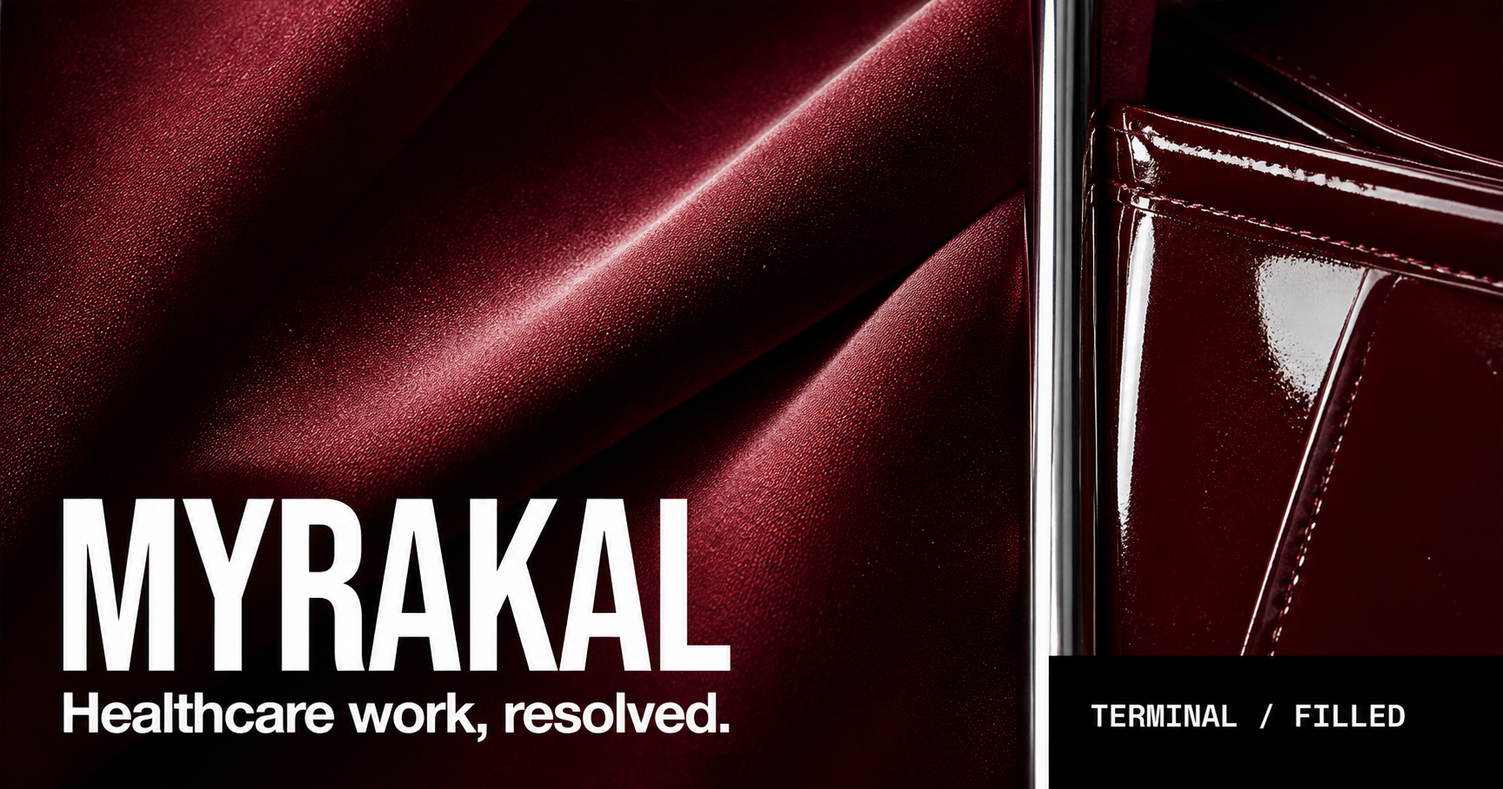
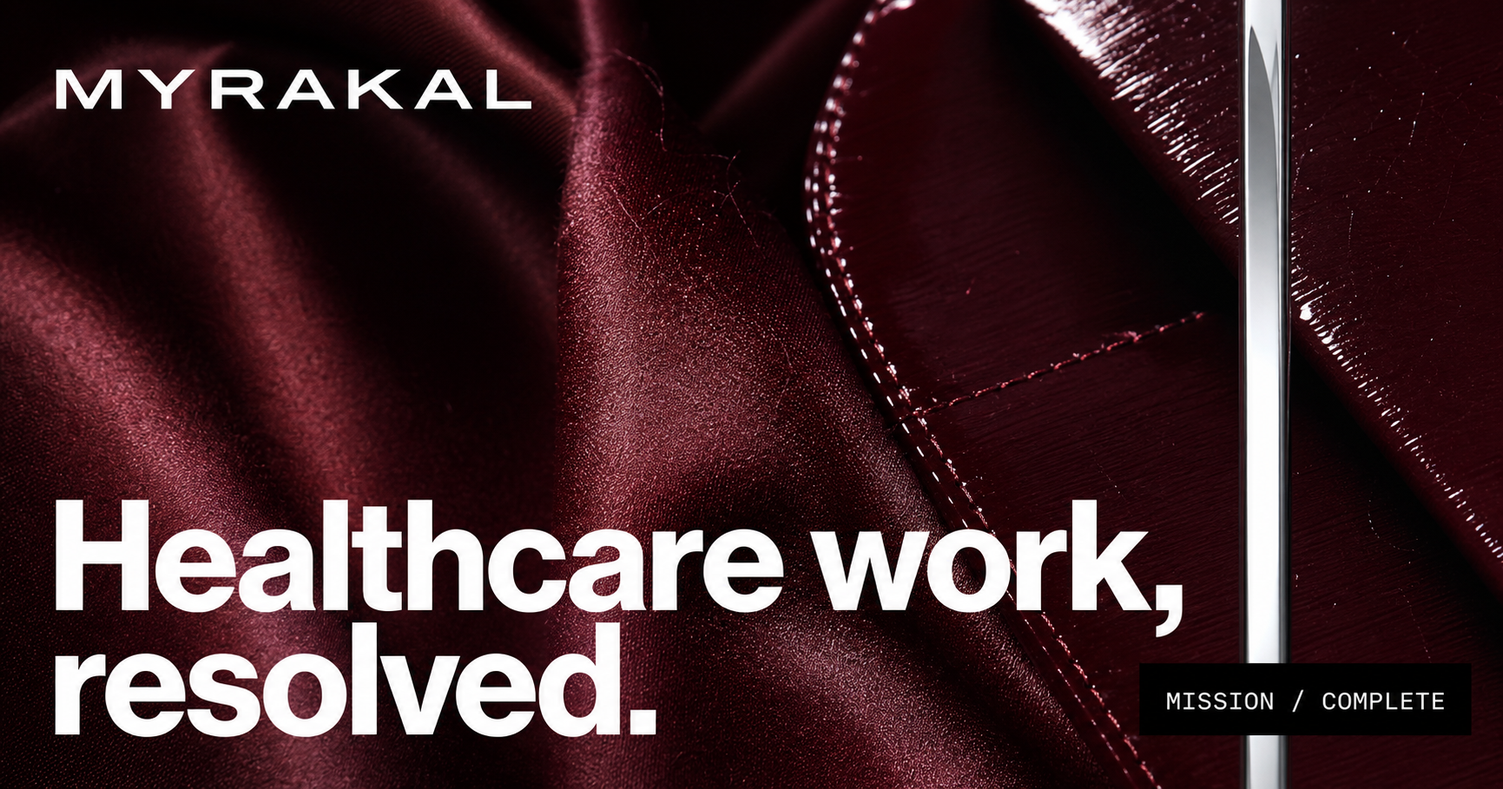
Expand Myrakal product narrative

diff --git a/app/globals.css b/app/globals.css
@@ -1,44 +1,22 @@
 @import "tailwindcss";
-
-:root{--paper:#f2efe9;--ink:#0a0909;--ox:#6f0711;--rule:rgba(10,9,9,.25)}
-*{box-sizing:border-box}
-html{scroll-behavior:smooth}
-body{margin:0;background:var(--paper);color:var(--ink);font-family:var(--font-geist),Arial,sans-serif}
-a{color:inherit}
-a:focus-visible{outline:2px solid currentColor;outline-offset:5px}
-.hero{min-height:100svh;position:relative;display:flex;align-items:flex-end;padding:9rem 3vw 4rem;color:#f6f2ec;background:#260206 url('/myrakal-hero.png') center/cover no-repeat;isolation:isolate}
-.hero:after{content:"";position:absolute;inset:0;z-index:-1;background:linear-gradient(90deg,rgba(12,0,0,.4) 0%,rgba(12,0,0,.12) 58%,rgba(12,0,0,.38) 100%)}
-.nav{position:absolute;top:0;left:0;width:100%;padding:2rem 3vw;display:flex;justify-content:space-between;align-items:center;border-bottom:1px solid rgba(255,255,255,.28);font-size:.74rem;letter-spacing:.16em}
-.brand{font-weight:650;text-decoration:none;letter-spacing:.42em}
-.nav nav{display:flex;gap:2.2rem}.nav nav a{text-decoration:none}.nav nav a:hover{opacity:.65}
-.hero-copy{width:min(1180px,92vw)}
-.eyebrow{font:500 .66rem/1.4 var(--font-mono),monospace;letter-spacing:.16em;margin:0 0 1.35rem}.eyebrow.dark{color:#5f5853}
-h1,h2,h3,p{margin-top:0}
-h1{font-size:clamp(4.4rem,10.4vw,10.5rem);line-height:.79;letter-spacing:-.077em;font-weight:540;margin:0;max-width:11ch}
-.intro{max-width:45ch;font:400 clamp(.9rem,1.15vw,1.08rem)/1.55 var(--font-mono),monospace;margin:2.4rem 0 0}
-.live-readout{position:absolute;right:3vw;bottom:4rem;display:grid;gap:.55rem;text-align:right;font:500 .64rem/1 var(--font-mono),monospace;letter-spacing:.1em}
-.scroll-cue{position:absolute;right:3vw;top:8rem;font:500 .64rem var(--font-mono),monospace;text-decoration:none;letter-spacing:.12em}
-.operation{position:relative;min-height:135vh;padding:12vh 3vw 18vh;display:grid;grid-template-columns:minmax(0,1fr) minmax(500px,.9fr);gap:8vw;align-items:start;background:var(--paper)}
-.operation-intro{position:sticky;top:12vh;max-width:760px}
-.operation h2,.principles h2{font-size:clamp(3.5rem,7vw,7.7rem);line-height:.88;letter-spacing:-.065em;font-weight:520;margin:0 0 2.5rem}
-.operation-intro>p:last-child{font-size:clamp(1.1rem,1.6vw,1.45rem);line-height:1.38;max-width:37ch}
-.console{margin-top:18vh;background:#090909;color:#f2f0eb;padding:1.5rem;min-height:720px;font:400 .72rem/1.4 var(--font-mono),monospace;box-shadow:12px 12px 0 var(--ox)}
-.console-top,.console-context,.console-result{display:flex;justify-content:space-between;gap:1rem;letter-spacing:.08em}
-.console-top{padding-bottom:1rem;border-bottom:1px solid #404040}.console-context{color:#969696;padding:1rem 0 2.5rem}.log{border-top:1px solid #242424}
-.log-line{display:grid;grid-template-columns:7.8rem 1fr auto;gap:1rem;padding:.85rem 0;border-bottom:1px solid #242424;animation:appear .2s both;animation-delay:calc(var(--i) * 70ms)}
-.log-line time{color:#717171}.log-line b{font-weight:400}.console-result{font-size:.76rem;background:#f2f0eb;color:#090909;padding:1.1rem;margin-top:2.5rem}
-@keyframes appear{from{opacity:0;transform:translateY(3px)}to{opacity:1;transform:none}}
-.resolution{min-height:100svh;position:relative;color:#f6f2ec;background:#2a0206;display:grid;grid-template-columns:1.25fr .75fr;overflow:hidden}
-.resolution-image{background:url('/myrakal-hero.png') 27% center/cover no-repeat;filter:saturate(1.18) contrast(1.06);min-height:85svh}
-.resolution-copy{padding:8vw 4vw;display:flex;flex-direction:column;justify-content:center}
-.resolution h2,.access h2{font-size:clamp(3.8rem,7vw,8rem);line-height:.86;letter-spacing:-.07em;font-weight:520;margin:0 0 2.3rem}
-.resolution-copy>p:not(.eyebrow){max-width:32ch;font-size:1.12rem;line-height:1.45}
-.receipt{font:400 .68rem/1.2 var(--font-mono),monospace;display:grid;grid-template-columns:1fr auto;gap:.7rem 1rem;border-top:1px solid rgba(255,255,255,.38);padding-top:1.2rem;margin-top:2.5rem}.receipt b{font-weight:500}
-.principles{padding:14vh 3vw 16vh}.principle-grid{display:grid;grid-template-columns:repeat(3,1fr);border-top:1px solid var(--ink)}
-.principle-grid article{padding:1.5rem 4vw 7rem 0;border-right:1px solid var(--rule)}.principle-grid article+article{padding-left:2vw}.principle-grid article:last-child{border-right:0}
-.principle-grid span{font:500 .68rem var(--font-mono),monospace}.principle-grid h3{font-size:clamp(2.4rem,4vw,4.4rem);letter-spacing:-.06em;font-weight:520;margin:4.5rem 0 1.4rem}.principle-grid p{max-width:28ch;line-height:1.5}
-.access{min-height:95svh;background:var(--ox);color:#f6f2ec;padding:12vh 3vw 2rem;display:flex;flex-direction:column}
-.access h2{max-width:10ch}.access>a{margin-top:auto;border-top:1px solid currentColor;border-bottom:1px solid currentColor;padding:1.5rem 0;display:flex;justify-content:space-between;text-decoration:none;font:500 clamp(1.3rem,2vw,2rem) var(--font-mono),monospace}.access>a:hover{padding-left:1rem;padding-right:1rem}
-footer{display:flex;justify-content:space-between;padding-top:2rem;font:500 .62rem var(--font-mono),monospace;letter-spacing:.13em}
-@media(max-width:800px){.nav nav a:first-child,.live-readout{display:none}.hero{padding:8rem 1.25rem 2rem}.nav{padding:1.5rem 1.25rem}.scroll-cue{right:1.25rem;top:6.7rem}.intro{max-width:34ch}.operation{display:block;padding:6rem 1.25rem}.operation-intro{position:relative;top:0}.console{margin-top:5rem;min-height:auto;box-shadow:7px 7px 0 var(--ox);padding:1rem}.log-line{grid-template-columns:6.3rem 1fr auto;gap:.5rem;font-size:.62rem}.resolution{grid-template-columns:1fr}.resolution-image{min-height:56svh}.resolution-copy{padding:5rem 1.25rem}.principles{padding:6rem 1.25rem}.principle-grid{grid-template-columns:1fr}.principle-grid article,.principle-grid article+article{padding:1.3rem 0 4rem;border-right:0;border-bottom:1px solid var(--rule)}.principle-grid h3{margin-top:2.5rem}.access{padding:6rem 1.25rem 1.5rem}footer{gap:1rem;flex-wrap:wrap}}
-@media(prefers-reduced-motion:reduce){html{scroll-behavior:auto}.log-line{animation:none}.access>a{transition:none}}
+:root{--paper:#f2efe9;--ink:#090909;--ox:#700711;--pale:#f6f2ec;--rule:rgba(9,9,9,.24);--mono:var(--font-mono),ui-monospace,monospace}
+*{box-sizing:border-box}html{scroll-behavior:smooth}body{margin:0;background:var(--paper);color:var(--ink);font-family:var(--font-geist),Arial,sans-serif}a{color:inherit}a:focus-visible{outline:2px solid currentColor;outline-offset:5px}h1,h2,h3,p,blockquote{margin-top:0}.paper{background:var(--paper)}.black{background:#090909;color:var(--pale)}.oxblood{background:var(--ox);color:var(--pale)}
+.eyebrow,.section-label{font:500 .64rem/1.4 var(--mono);letter-spacing:.16em;margin:0 0 1.4rem}.eyebrow.dark{color:#655d58}.section-label{position:absolute;top:2rem;left:3vw;color:#625b56}.section-label.light{color:#e5cdd0}section{position:relative}section h2{font-size:clamp(3.4rem,6.8vw,7.7rem);line-height:.87;letter-spacing:-.068em;font-weight:520;margin:0}section>div>p:not(.eyebrow){line-height:1.45}
+.hero{min-height:100svh;display:flex;align-items:flex-end;padding:9rem 3vw 4rem;color:var(--pale);background:#260206 url('/myrakal-hero.png') center/cover no-repeat;isolation:isolate}.hero:after{content:"";position:absolute;inset:0;z-index:-1;background:linear-gradient(90deg,rgba(12,0,0,.46),rgba(12,0,0,.08) 60%,rgba(12,0,0,.38))}.nav{position:absolute;top:0;left:0;width:100%;padding:2rem 3vw;display:flex;justify-content:space-between;border-bottom:1px solid #ffffff47;font-size:.7rem;letter-spacing:.15em}.brand{font-weight:650;letter-spacing:.42em;text-decoration:none}.nav nav{display:flex;gap:2rem}.nav nav a{text-decoration:none}.hero-copy{width:min(1200px,92vw)}h1{font-size:clamp(4.5rem,10.4vw,10.6rem);line-height:.79;letter-spacing:-.078em;font-weight:540;margin:0;max-width:11ch}.intro{max-width:51ch;font:400 clamp(.9rem,1.15vw,1.06rem)/1.55 var(--mono);margin:2.4rem 0 0}.hero-actions{display:flex;gap:2rem;margin-top:2rem}.hero-actions a{font:500 .66rem var(--mono);letter-spacing:.12em;text-decoration:none;border-bottom:1px solid currentColor;padding-bottom:.3rem}.live-readout{position:absolute;right:3vw;bottom:4rem;display:grid;gap:.55rem;text-align:right;font:500 .62rem/1 var(--mono);letter-spacing:.1em}
+.problem{min-height:120vh;padding:13rem 3vw 10rem}.problem-title{max-width:1200px}.signals{margin:9rem 0 7rem 34%;border-top:1px solid var(--ink)}.signals p{font-size:clamp(1.25rem,2.25vw,2.4rem);letter-spacing:-.03em;padding:1.25rem 0;border-bottom:1px solid var(--rule);margin:0}.argument{display:grid;grid-template-columns:1fr 1.5fr 1fr;gap:3vw;align-items:end;border-top:1px solid var(--ink);padding-top:1.5rem}.argument p{font:500 .72rem/1.5 var(--mono);text-transform:uppercase;letter-spacing:.08em}.argument strong{font-size:clamp(2rem,4vw,4.8rem);line-height:.95;letter-spacing:-.055em;font-weight:520}
+.schedule{min-height:150vh;padding:13vh 3vw 18vh;display:grid;grid-template-columns:minmax(0,1fr) minmax(500px,.92fr);gap:7vw;align-items:start}.schedule-copy{position:sticky;top:10vh}.schedule-copy>p:last-of-type{font-size:clamp(1.05rem,1.5vw,1.4rem);max-width:42ch;margin-top:2.5rem}.funnel{display:grid;grid-template-columns:1fr 1fr;margin-top:4rem;border-top:1px solid var(--ink)}.funnel>div{padding:1rem 1.5rem 1.5rem 0;display:grid}.funnel>div+div{border-left:1px solid var(--rule);padding-left:1.5rem}.funnel small,.funnel em{font:500 .61rem var(--mono);letter-spacing:.1em}.funnel b{font-size:clamp(2.5rem,4vw,4.4rem);letter-spacing:-.06em;margin-top:2rem}.funnel span{font:.7rem var(--mono);margin:.4rem 0 2rem}.funnel em{font-style:normal}.console{margin-top:16vh;background:#090909;color:var(--pale);padding:1.5rem;min-height:760px;font:400 .69rem/1.4 var(--mono);box-shadow:12px 12px 0 var(--ox)}.console-top,.console-context,.console-result{display:flex;justify-content:space-between;gap:1rem;letter-spacing:.07em}.console-top{padding-bottom:1rem;border-bottom:1px solid #404040}.console-context{color:#929292;padding:1rem 0 2.2rem}.log{border-top:1px solid #242424}.log-line{display:grid;grid-template-columns:5.9rem 1fr auto;gap:.7rem;padding:.8rem 0;border-bottom:1px solid #242424;animation:appear .2s both;animation-delay:calc(var(--i)*60ms)}.log-line time{color:#707070}.log-line b{font-weight:400}.console-result{background:var(--pale);color:#090909;padding:1.05rem;margin-top:2rem}.console-result span:first-child{font-weight:700}@keyframes appear{from{opacity:0;transform:translateY(3px)}to{opacity:1;transform:none}}
+.barriers{padding:14vh 3vw 16vh;min-height:120vh}.barrier-lead{display:grid;grid-template-columns:1fr 2fr;column-gap:6vw}.barrier-lead .eyebrow{grid-column:1}.barrier-lead h2{grid-column:1/3;max-width:14ch}.barrier-lead>p:last-child{grid-column:2;max-width:40ch;font-size:1.2rem;margin:3rem 0 7rem}.branch-list{border-top:1px solid #ffffff80}.branch-list div{display:grid;grid-template-columns:1fr auto 1fr;gap:3vw;align-items:center;border-bottom:1px solid #ffffff45;padding:1.4rem 0}.branch-list span{font:500 .68rem var(--mono);letter-spacing:.1em}.branch-list b{font-weight:400}.branch-list strong{font-size:clamp(1.3rem,2.5vw,2.7rem);font-weight:500;letter-spacing:-.04em}
+.mission{padding:14vh 3vw 16vh;display:grid;grid-template-columns:1fr 1fr;gap:8vw}.mission-copy{position:sticky;top:10vh;align-self:start}.mission-copy>p:not(.eyebrow){max-width:40ch;font-size:1.15rem;margin:2.5rem 0}.mission-flow{font:500 .65rem/2 var(--mono);letter-spacing:.1em;border-top:1px solid #444;padding-top:1rem}.mission-timeline{padding-top:9rem}.mission-timeline>div{display:grid;grid-template-columns:4rem 6rem 1fr;gap:1rem;padding:1.1rem 0;border-top:1px solid #333;font:.69rem var(--mono)}.mission-timeline time{color:#777}.mission-timeline b{font-weight:500}.terminal{display:block;background:var(--pale);color:#090909;font:.72rem var(--mono);letter-spacing:.08em;padding:1rem;margin-top:2rem}
+.exceptions{padding:14vh 3vw 16vh}.exceptions>h2{max-width:14ch}.contrast{display:grid;grid-template-columns:1fr 1fr;margin-top:8rem;border-top:1px solid var(--ink)}.contrast>div{padding:1.5rem 3vw 6rem 0}.contrast>div+div{border-left:1px solid var(--rule);padding-left:3vw}.contrast small{font:.65rem var(--mono);letter-spacing:.12em}.without p{font-size:1.25rem;border-bottom:1px solid var(--rule);padding:1rem 0;margin:2rem 0 0}.without p+p{margin:0}.without b{font:500 1rem var(--mono);margin-right:2rem}.with>b{display:block;font-size:clamp(8rem,16vw,17rem);line-height:.75;letter-spacing:-.1em;margin-top:6rem}.with strong{display:block;font-size:clamp(2rem,3vw,3.8rem);font-weight:520;letter-spacing:-.05em}.with p{font:500 .7rem var(--mono);margin-top:3rem}
+.ghost{padding:14vh 3vw 16vh;display:grid;grid-template-columns:1fr 1fr;gap:8vw}.ghost-copy p:last-child{max-width:42ch;font-size:1.1rem;margin-top:2.5rem}.ghost-ui{background:#090909;padding:1.5rem;font:400 .7rem var(--mono);align-self:end;box-shadow:12px 12px 0 var(--pale)}.ghost-head{display:flex;justify-content:space-between;border-bottom:1px solid #444;padding-bottom:1rem}.ghost-ui>b{font:500 clamp(4rem,8vw,8rem)/1 var(--font-geist);display:block;letter-spacing:-.07em;margin-top:3rem}.ghost-ui>span{color:#aaa}.ghost-stats{display:grid;grid-template-columns:repeat(3,1fr);margin-top:4rem;border-top:1px solid #444}.ghost-stats p{padding:1rem 1rem 2rem 0;border-right:1px solid #333}.ghost-stats b{display:block;font-size:1.8rem;margin-bottom:.5rem}.evidence{display:grid;gap:.6rem;border-top:1px solid #444;padding-top:1rem;color:#aaa}
+.memory{padding:14vh 3vw 16vh}.memory>div:first-child{display:grid;grid-template-columns:1fr 2fr;column-gap:5vw}.memory>div:first-child .eyebrow{grid-column:1}.memory>div:first-child h2{grid-column:1/3}.memory>div:first-child p:last-child{grid-column:2;margin-top:2rem}.message-compare{display:grid;grid-template-columns:1fr 1fr;margin-top:8rem;border-top:1px solid var(--ink)}.message-compare article{padding:1.5rem 4vw 5rem 0}.message-compare article+article{border-left:1px solid var(--rule);padding-left:4vw}.message-compare small{font:.64rem var(--mono);letter-spacing:.12em}.message-compare p{font-size:clamp(1.3rem,2.3vw,2.5rem);line-height:1.2;letter-spacing:-.035em;margin-top:4rem}.context-strip{display:flex;flex-wrap:wrap;gap:.6rem;border-top:1px solid var(--ink);padding-top:1rem}.context-strip span{font:.65rem var(--mono);border:1px solid var(--ink);padding:.65rem .8rem}
+.reason{padding:14vh 3vw 16vh;display:grid;grid-template-columns:1fr 1fr;gap:8vw}.reason>div:first-child p:last-child{max-width:32ch;margin-top:2.5rem}.reason-table{font:400 .72rem var(--mono);border-top:1px solid #555}.reason-table h3{font:500 1rem var(--mono);letter-spacing:.12em;padding:1.5rem 0 3rem}.reason-table p{display:grid;grid-template-columns:8rem 1fr;padding:1.1rem 0;border-top:1px solid #333;margin:0}.reason-table span{color:#888}.reason-table b{font-weight:400}
+.full-story{padding:14vh 3vw 16vh}.story-line{margin:8rem 0 6rem 34%;border-top:1px solid var(--ink)}.story-line div{display:grid;grid-template-columns:6rem 1fr;padding:1rem 0;border-bottom:1px solid var(--rule);font-size:clamp(1.1rem,2vw,2rem);letter-spacing:-.025em}.story-line time{font:.65rem var(--mono)}.story-close{font-size:clamp(2.8rem,6vw,7rem);line-height:.9;letter-spacing:-.06em}.story-close p{margin:0}.story-close p:last-child{color:var(--ox)}
+.systems{padding:14vh 3vw 16vh;display:grid;grid-template-columns:1.2fr .8fr;gap:8vw}.systems>div:first-child p:last-child{max-width:43ch;font-size:1.1rem;margin-top:2.5rem}.system-diagram{align-self:center;display:grid;text-align:center;font:.69rem var(--mono);letter-spacing:.08em}.system-diagram span,.system-diagram b{border:1px solid #ffffff90;padding:2rem 1rem}.system-diagram b{background:var(--pale);color:var(--ink)}.system-diagram i{font-style:normal;padding:1.3rem 0}
+.control{padding:14vh 3vw 16vh}.control-grid{display:grid;grid-template-columns:1fr 1fr;margin:8rem 0 0 34%;border-top:1px solid var(--ink)}.control-grid p{display:grid;gap:1.5rem;padding:1.5rem 3vw 5rem 0;border-bottom:1px solid var(--rule)}.control-grid p:nth-child(even){border-left:1px solid var(--rule);padding-left:3vw}.control-grid b{font-size:1.6rem;font-weight:520}.control-grid span{max-width:34ch;line-height:1.5}
+.category{padding:14vh 3vw 16vh}.category>p{font:500 clamp(1.1rem,2vw,2rem)/1.4 var(--mono);border-top:1px solid #343434;padding:1rem 0;margin:0}.category h2{max-width:15ch;margin:10rem 0 0 34%;color:#d8b7ba}
+.outcomes{padding:14vh 3vw 16vh}.outcome-list{display:grid;margin:7rem 0 0 34%;border-top:1px solid var(--ink)}.outcome-list span{font:500 clamp(1rem,2vw,2rem) var(--mono);letter-spacing:.04em;padding:1.2rem 0;border-bottom:1px solid var(--rule)}
+.vision{padding:14vh 3vw 16vh}.vision-questions{display:grid;grid-template-columns:1fr 1fr;margin:8rem 0;border-top:1px solid #ffffff80}.vision-questions span{font:.68rem var(--mono);padding:1.4rem 0;border-bottom:1px solid #ffffff50}.vision-questions span:nth-child(even){border-left:1px solid #ffffff50;padding-left:2rem}.vision blockquote{font-size:clamp(2rem,4vw,4.7rem);line-height:1.02;letter-spacing:-.05em;max-width:21ch;margin-left:34%}.vision blockquote strong{font-weight:540;color:#fff}
+.access{min-height:95svh;background:var(--ox);color:var(--pale);padding:12vh 3vw 2rem;display:flex;flex-direction:column}.access h2{max-width:10ch}.access>a{margin-top:auto;border-top:1px solid;border-bottom:1px solid;padding:1.5rem 0;display:flex;justify-content:space-between;text-decoration:none;font:500 clamp(1.2rem,2vw,2rem) var(--mono)}.access>a:hover{padding-left:1rem;padding-right:1rem}footer{display:flex;justify-content:space-between;padding-top:2rem;font:500 .62rem var(--mono);letter-spacing:.13em}
+@media(max-width:800px){.nav nav a:not(:last-child),.live-readout{display:none}.hero{padding:8rem 1.25rem 2rem}.nav{padding:1.5rem 1.25rem}.hero-actions{gap:1rem;flex-wrap:wrap}.section-label{left:1.25rem}.problem,.barriers,.exceptions,.memory,.full-story,.control,.category,.outcomes,.vision{padding:8rem 1.25rem}.signals,.story-line,.control-grid,.category h2,.outcome-list,.vision blockquote{margin-left:0}.argument,.barrier-lead,.memory>div:first-child{display:block}.argument{display:grid;grid-template-columns:1fr}.schedule,.mission,.ghost,.reason,.systems{display:block;padding:8rem 1.25rem}.schedule-copy,.mission-copy{position:relative;top:0}.console{margin-top:5rem;min-height:auto;padding:1rem;box-shadow:7px 7px 0 var(--ox)}.log-line{grid-template-columns:4.8rem 1fr auto;font-size:.57rem}.barrier-lead>p:last-child{margin:2rem 0 5rem}.branch-list div{grid-template-columns:1fr auto}.branch-list strong{grid-column:1/3}.mission-timeline{padding-top:5rem}.mission-timeline>div{grid-template-columns:3.2rem 4.8rem 1fr;font-size:.6rem}.contrast,.message-compare{grid-template-columns:1fr}.contrast>div+div,.message-compare article+article{border-left:0;border-top:1px solid var(--rule);padding-left:0}.with>b{font-size:10rem}.ghost-ui,.reason-table,.system-diagram{margin-top:5rem}.ghost-stats{grid-template-columns:1fr}.ghost-stats p{border-right:0;border-bottom:1px solid #333}.reason-table p{grid-template-columns:6.5rem 1fr}.vision-questions{grid-template-columns:1fr}.vision-questions span:nth-child(even){border-left:0;padding-left:0}footer{gap:1rem;flex-wrap:wrap}}
+@media(prefers-reduced-motion:reduce){html{scroll-behavior:auto}.log-line{animation:none}}

diff --git a/app/page.tsx b/app/page.tsx
@@ -1,88 +1,129 @@
-const logLines = [
-  ["10:42:13.091", "availability.changed", ""],
-  ["10:42:13.104", "slot.detected", "+90m"],
-  ["10:42:13.137", "candidates.loaded", "18"],
-  ["10:42:13.142", "reject.duration", "12"],
-  ["10:42:13.149", "reject.provider", "02"],
-  ["10:42:13.163", "ready", "03"],
-  ["10:42:14.007", "outreach.dispatch", "02"],
-  ["10:46:02.318", "response.timeout", "01"],
-  ["10:48:31.441", "response.received", "01"],
-  ["10:51:08.229", "appointment.write", "ok"],
+const scheduleLog = [
+  ["10:18:04", "opening.detected", "THU 14:00 / 90m"],
+  ["10:18:06", "patients.considered", "14"],
+  ["10:18:07", "constraint.duration", "pass 06"],
+  ["10:18:08", "constraint.provider", "pass 04"],
+  ["10:18:09", "barrier.review", "pass 03"],
+  ["10:18:10", "candidates.viable", "03"],
+  ["10:20:11", "outreach.started", "01"],
+  ["10:27:42", "response.received", "insurance?"],
+  ["10:29:03", "exception.created", "staff"],
+  ["10:41:18", "exception.cleared", "resume"],
+  ["10:43:51", "patient.accepted", "yes"],
+  ["10:44:02", "appointment.write", "ok"],
+];
+
+const mission = [
+  ["10:18", "Trigger", "Crown cancellation detected"],
+  ["10:18", "Understand", "Opening and constraints identified"],
+  ["10:19", "Act", "Three viable patients found"],
+  ["10:20", "Observe", "Best candidate contacted"],
+  ["10:27", "Continue", "Insurance question surfaced"],
+  ["10:29", "Escalate", "One staff decision requested"],
+  ["10:41", "Resume", "Staff confirms; mission continues"],
+  ["10:44", "Resolve", "Patient accepts; opening recovered"],
 ];
 
 export default function Home() {
-  return (
-    <main>
-      <section className="hero" id="top">
-        <header className="nav">
-          <a className="brand" href="#top" aria-label="Myrakal home">MYRAKAL</a>
-          <nav aria-label="Primary navigation">
-            <a href="#operation">How it works</a>
-            <a href="#access">Request access</a>
-          </nav>
-        </header>
+  return <main>
+    <section className="hero" id="top">
+      <header className="nav">
+        <a className="brand" href="#top" aria-label="Myrakal home">MYRAKAL</a>
+        <nav aria-label="Primary navigation"><a href="#work">The problem</a><a href="#schedule">See it work</a><a href="#access">Request access</a></nav>
+      </header>
+      <div className="hero-copy">
+        <p className="eyebrow">RESOLUTION LAYER / HEALTHCARE OPERATIONS</p>
+        <h1>Healthcare work,<br/>resolved.</h1>
+        <p className="intro">Myrakal continuously finds unfinished work across your practice, figures out what needs to happen next, and keeps working until it’s resolved.</p>
+        <div className="hero-actions"><a href="#schedule">SEE MYRAKAL WORK ↓</a><a href="#model">HOW IT WORKS</a></div>
+      </div>
+      <div className="live-readout"><span>MYRA / LIVE</span><span>ACTIVE 14</span><span>WAITING 03</span><span>TERMINAL 11</span></div>
+    </section>
 
-        <div className="hero-copy">
-          <p className="eyebrow">EXECUTION LAYER / HEALTHCARE OPERATIONS</p>
-          <h1>Healthcare work,<br />resolved.</h1>
-          <p className="intro">Myrakal finds unresolved operational work in the systems a practice already runs—and keeps acting until the work is finished or needs a human.</p>
-        </div>
+    <section className="problem paper" id="work">
+      <div className="section-label">01 / THE EXECUTION PROBLEM</div>
+      <div className="problem-title"><p className="eyebrow dark">YOUR PRACTICE ALREADY KNOWS</p><h2>The work isn’t missing.<br/>The follow-through is.</h2></div>
+      <div className="signals">
+        <p>A 90-minute opening appears tomorrow.</p><p>A crown was cancelled and never rescheduled.</p><p>A patient is waiting on insurance.</p><p>A treatment plan has sat untouched for six months.</p>
+      </div>
+      <div className="argument"><p>Practice software records what happened.</p><strong>Nobody continuously owns what happens next.</strong><p>Myrakal does.</p></div>
+    </section>
 
-        <div className="live-readout" aria-label="Current system status">
-          <span>MYRA / LIVE</span><span>ACTIVE 14</span><span>WAITING 03</span><span>TERMINAL 11</span>
-        </div>
-        <a className="scroll-cue" href="#operation">VIEW ONE RESOLUTION ↓</a>
-      </section>
+    <section className="schedule paper" id="schedule">
+      <div className="schedule-copy">
+        <p className="eyebrow dark">02 / SCHEDULE RECOVERY</p>
+        <h2>An opening isn’t a list.<br/>It’s a matching problem.</h2>
+        <p>Thursday · 2:00 PM · 90 minutes. Myrakal understands the opening, applies the practice’s constraints, finds who actually makes sense, and takes the next action.</p>
+        <div className="funnel"><div><small>TYPICAL SOFTWARE</small><b>127</b><span>patients on a list</span><em>SEND BLAST</em></div><div><small>MYRAKAL</small><b>14 → 3 → 1</b><span>possible · viable · next action</span><em>RESOLVE</em></div></div>
+      </div>
+      <div className="console" role="log" aria-label="Schedule recovery execution log">
+        <div className="console-top"><span>SCHEDULE_RECOVERY / 0418</span><span>STATE / EVALUATING</span></div>
+        <div className="console-context"><span>PROVIDER / LEE</span><span>OP / 03</span><span>OPEN / +90m</span></div>
+        <div className="log">{scheduleLog.map(([time,event,value],i)=><div className="log-line" style={{"--i":i} as React.CSSProperties} key={event}><time>{time}</time><span>{event}</span><b>{value}</b></div>)}</div>
+        <div className="console-result"><span>TERMINAL / FILLED</span><span>ELAPSED / 25:58</span></div>
+      </div>
+    </section>
 
-      <section className="operation" id="operation">
-        <div className="operation-intro">
-          <p className="eyebrow dark">AN OPENING APPEARS / THURSDAY, 10:42</p>
-          <h2>Ninety minutes<br />back on the schedule.</h2>
-          <p>A late cancellation leaves time unfilled. Myrakal evaluates the live schedule, applies the practice’s rules, contacts eligible patients, and records the confirmed appointment in the system of record.</p>
-        </div>
+    <section className="barriers oxblood">
+      <div className="section-label light">03 / BARRIER RESOLUTION</div>
+      <div className="barrier-lead"><p className="eyebrow">THE REAL QUESTION</p><h2>Filling the schedule isn’t always a scheduling problem.</h2><p>Automated outreach asks, “Would you like to schedule?” Myrakal asks what has to become true for this patient to move forward.</p></div>
+      <div className="branch-list">
+        <div><span>INSURANCE UNCERTAINTY</span><b>→</b><strong>Resolve the dependency</strong></div>
+        <div><span>CLINICAL QUESTION</span><b>→</b><strong>Bring in the provider</strong></div>
+        <div><span>TIMING CONFLICT</span><b>→</b><strong>Wait for the right opening</strong></div>
+        <div><span>FINANCIAL BARRIER</span><b>→</b><strong>Use an approved pathway</strong></div>
+        <div><span>NOT READY</span><b>→</b><strong>Defer—and remember why</strong></div>
+      </div>
+    </section>
 
-        <div className="console" role="log" aria-label="Schedule recovery execution log">
-          <div className="console-top"><span>SCHEDULE_RECOVERY / 0418</span><span>STATE / EVALUATING</span></div>
-          <div className="console-context"><span>PROVIDER / LEE</span><span>OP / 03</span><span>OPEN / +90m</span></div>
-          <div className="log">
-            {logLines.map(([time, event, value], index) => (
-              <div className="log-line" style={{ "--i": index } as React.CSSProperties} key={event}>
-                <time>{time}</time><span>{event}</span><b>{value}</b>
-              </div>
-            ))}
-          </div>
-          <div className="console-result">
-            <span>TERMINAL / FILLED</span><span>ELAPSED / 08:55</span>
-          </div>
-        </div>
-      </section>
+    <section className="mission black" id="model">
+      <div className="mission-copy"><p className="eyebrow">04 / RESOLUTION MISSIONS</p><h2>Myrakal doesn’t create tasks.<br/>It completes missions.</h2><p>A mission survives the first reply, a changed circumstance, or a required human decision. It owns the thread until there is a terminal outcome.</p><div className="mission-flow">TRIGGER → UNDERSTAND → ACT → OBSERVE → CONTINUE → RESOLVE</div></div>
+      <div className="mission-timeline">{mission.map(([time,stage,text])=><div key={stage}><time>{time}</time><b>{stage}</b><span>{text}</span></div>)}<strong className="terminal">MISSION COMPLETE / OPENING RECOVERED</strong></div>
+    </section>
 
-      <section className="resolution">
-        <div className="resolution-image" aria-hidden="true" />
-        <div className="resolution-copy">
-          <p className="eyebrow">10:51 / THE SYSTEM GOES QUIET</p>
-          <h2>Work closed.<br />Not watched.</h2>
-          <p>The appointment is confirmed. The schedule is updated. The operational case ends with a result—not another item on a dashboard.</p>
-          <div className="receipt"><span>OUTCOME</span><b>FILLED</b><span>WRITE</span><b>CONFIRMED</b></div>
-        </div>
-      </section>
+    <section className="exceptions paper">
+      <p className="eyebrow dark">05 / HUMAN INTERVENTION</p><h2>Your team handles judgment.<br/>Myrakal handles persistence.</h2>
+      <div className="contrast"><div className="without"><small>WITHOUT MYRAKAL</small><p><b>147</b> follow-ups</p><p><b>23</b> patients to call</p><p><b>11</b> schedule gaps</p><p><b>08</b> insurance issues</p></div><div className="with"><small>WITH MYRAKAL</small><b>3</b><strong>decisions need you</strong><p>Everything else keeps moving.</p></div></div>
+    </section>
 
-      <section className="principles">
-        <p className="eyebrow dark">THE OPERATING MODEL</p>
-        <div className="principle-grid">
-          <article><span>01</span><h3>Connect</h3><p>Works through the systems a practice already uses. The PMS remains the system of record.</p></article>
-          <article><span>02</span><h3>Resolve</h3><p>Detects unfinished operational work, acts within explicit permissions, and observes the result.</p></article>
-          <article><span>03</span><h3>Escalate</h3><p>When judgment or authority is required, Myrakal hands the case to a human with its context intact.</p></article>
-        </div>
-      </section>
+    <section className="ghost oxblood">
+      <div className="ghost-copy"><p className="eyebrow">06 / GHOST MODE · ILLUSTRATIVE DATA</p><h2>Some of your best opportunities already disappeared.</h2><p>Myrakal reviews historical activity for treatment that never reached a terminal outcome—then uses the available evidence to decide whether there is a responsible next action.</p></div>
+      <div className="ghost-ui"><div className="ghost-head"><span>GHOST_MODE / DEMO</span><span>HISTORICAL REVIEW</span></div><b>$184,300</b><span>unresolved treatment discovered</span><div className="ghost-stats"><p><b>62</b> cases identified</p><p><b>17</b> newly actionable</p><p><b>08</b> high-confidence opportunities</p></div><div className="evidence"><span>CONFIRMED BARRIER</span><span>PROBABLE BARRIER</span><span>UNKNOWN BARRIER</span><span>NEW TRIGGER</span></div></div>
+    </section>
 
-      <section className="access" id="access">
-        <p className="eyebrow">FOR DENTAL PRACTICES / DESIGN PARTNERS</p>
-        <h2>Less work<br />left unresolved.</h2>
-        <a href="mailto:hello@myrakal.com?subject=Myrakal%20access">REQUEST ACCESS <span>↗</span></a>
-        <footer><span>MYRAKAL</span><span>HEALTHCARE WORK, RESOLVED.</span><span>© 2026</span></footer>
-      </section>
-    </main>
-  );
+    <section className="memory paper">
+      <div><p className="eyebrow dark">07 / OPERATIONAL MEMORY</p><h2>Every conversation starts where the last one ended.</h2><p>The point is not to sound human. The point is that the practice remembers.</p></div>
+      <div className="message-compare"><article><small>GENERIC SOFTWARE</small><p>“Hi Sarah, you’re due to schedule your treatment. Reply YES to schedule.”</p></article><article><small>MYRAKAL</small><p>“Hi Sarah—you mentioned evenings were easiest. A Thursday 5:10 opening just came up for the crown Dr. Patel discussed with you. Want me to see if it still works?”</p></article></div>
+      <div className="context-strip"><span>Prefers evenings</span><span>Earlier openings / yes</span><span>Benefits verified</span><span>Crown / active</span><span>Last contact / 18d</span></div>
+    </section>
+
+    <section className="reason black">
+      <div><p className="eyebrow">08 / EXPLAINABILITY</p><h2>Every action has a reason.</h2><p>No unexplained score. No magic. Just the evidence behind the next action.</p></div>
+      <div className="reason-table"><h3>WHY MARIA?</h3><p><span>TREATMENT</span><b>Crown remains active</b></p><p><span>FIT</span><b>90-minute requirement matches</b></p><p><span>PROVIDER</span><b>Correct provider available</b></p><p><span>PREFERENCE</span><b>Previously requested earlier times</b></p><p><span>INSURANCE</span><b>No unresolved prerequisite</b></p><p><span>TIMING</span><b>Prefers afternoons</b></p></div>
+    </section>
+
+    <section className="full-story paper">
+      <p className="eyebrow dark">09 / ONE OPENING · 26 MINUTES</p><h2>One thread.<br/>Owned end to end.</h2>
+      <div className="story-line">{mission.map(([time,stage,text])=><div key={stage}><time>{time}</time><span>{text}</span></div>)}</div>
+      <div className="story-close"><p>Nobody ran a report.</p><p>Nobody remembered to follow up.</p></div>
+    </section>
+
+    <section className="systems oxblood">
+      <div><p className="eyebrow">10 / EXISTING SYSTEMS</p><h2>Keep your PMS.<br/>Add the layer that gets things done.</h2><p>Your practice-management system remains the system of record. Myrakal becomes the resolution layer: reading what happened, coordinating the next action, and returning the outcome.</p></div>
+      <div className="system-diagram"><span>PRACTICE-MANAGEMENT SYSTEM</span><i>RECORDED STATE ↓</i><b>MYRAKAL / RESOLUTION LAYER</b><i>↓ ACTION · OBSERVATION · OUTCOME</i><span>PRACTICE OPERATIONS</span></div>
+    </section>
+
+    <section className="control paper">
+      <p className="eyebrow dark">11 / TRUST + CONTROL</p><h2>Autonomy where it helps.<br/>Judgment where it matters.</h2>
+      <div className="control-grid"><p><b>Practice-defined behavior</b><span>The practice controls permissions, pathways, and communication rules.</span></p><p><b>Sensitive situations escalate</b><span>Clinical questions and policy decisions go to the right human.</span></p><p><b>No invented answers</b><span>Myrakal does not fabricate insurance details, discounts, or clinic policy.</span></p><p><b>Actions stay legible</b><span>Staff can understand what happened, what evidence was used, and why.</span></p></div>
+    </section>
+
+    <section className="category black"><p>NOT ANOTHER DASHBOARD.</p><p>NOT ANOTHER MASS-TEXTING TOOL.</p><p>NOT A REPLACEMENT PMS.</p><p>NOT A CHATBOT IN THE CORNER.</p><h2>Myrakal is the layer that notices unfinished work and gets it resolved.</h2></section>
+
+    <section className="outcomes paper"><p className="eyebrow dark">12 / THE MEASURE</p><h2>Measure outcomes.<br/>Not automation.</h2><div className="outcome-list"><span>SCHEDULE HOURS RECOVERED</span><span>CASES RESOLVED</span><span>TREATMENT MOVED FORWARD</span><span>STAFF TOUCHES AVOIDED</span><span>TIME TO RESOLUTION</span></div></section>
+
+    <section className="vision oxblood"><p className="eyebrow">13 / THE LARGER SYSTEM</p><h2>From recovering appointments<br/>to orchestrating the clinic.</h2><div className="vision-questions"><span>WHAT NEEDS TO HAPPEN?</span><span>WHAT CAPACITY EXISTS?</span><span>WHAT IS PREVENTING PROGRESS?</span><span>WHAT SHOULD HAPPEN NEXT?</span></div><blockquote>Every clinic has thousands of small things that have to go right. Appointments move. Patients hesitate. Insurance changes. Rooms open. Staff get busy. Cases disappear into lists.<br/><br/>Software records all of it.<br/><strong>Myrakal acts on it.</strong></blockquote></section>
+
+    <section className="access" id="access"><p className="eyebrow">FOR DENTAL PRACTICES / DESIGN PARTNERS</p><h2>Give Myrakal<br/>an opening.</h2><a href="mailto:hello@myrakal.com?subject=See%20Myrakal%20work">SEE WHAT HAPPENS <span>↗</span></a><footer><span>MYRAKAL</span><span>HEALTHCARE WORK, RESOLVED.</span><span>© 2026</span></footer></section>
+  </main>;
 }

diff --git a/app/layout.tsx b/app/layout.tsx
@@ -7,16 +7,16 @@ const mono = Geist_Mono({ variable: "--font-mono", subsets: ["latin"] });
 
 export const metadata: Metadata = {
   title: "Myrakal — Healthcare work, resolved.",
-  description: "Myrakal is the execution layer for healthcare operations, starting with dentistry.",
+  description: "Myrakal is the resolution layer for healthcare operations—finding unfinished work and keeping it moving until it is resolved.",
   openGraph: {
     title: "Myrakal — Healthcare work, resolved.",
-    description: "The execution layer for healthcare operations.",
+    description: "The resolution layer for healthcare operations.",
     type: "website",
   },
   twitter: {
     card: "summary_large_image",
     title: "Myrakal — Healthcare work, resolved.",
-    description: "The execution layer for healthcare operations.",
+    description: "The resolution layer for healthcare operations.",
   },
 };
 
